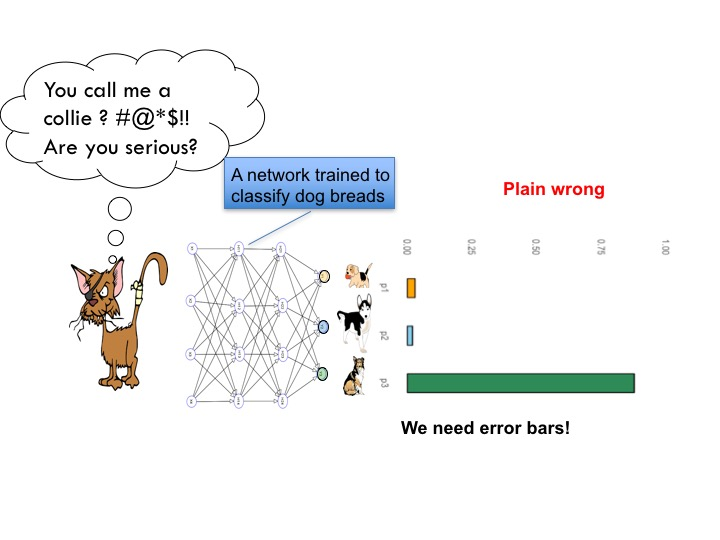
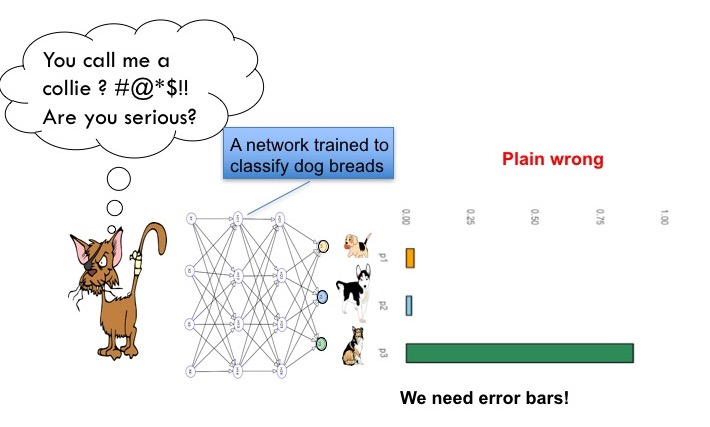
Cropped image and fixed broken link

diff --git a/_includes/uncertainty.md b/_includes/uncertainty.md
@@ -8,7 +8,7 @@ The network overconfidently assigns a high probability to the wrong class. I get
 
 We use this approach in several places:
 
-* For the use in high content screening see: [Oliver Dürr, Elvis Murina, Daniel Siegismund, Vasily Tolkachev, Stephan Steigele, and Beate Sick. "Know When You Don't Know: A Robust Deep Learning Approach in the Presence of Unknown Phenotypes" ASSAY and Drug Development Technologies.](https://www.researchgate.net/publication/230568931_Using_Community_Structure_for_Complex_Network_Layout)
+* For the use in high content screening see: [Oliver Dürr, Elvis Murina, Daniel Siegismund, Vasily Tolkachev, Stephan Steigele, and Beate Sick. "Know When You Don't Know: A Robust Deep Learning Approach in the Presence of Unknown Phenotypes" ASSAY and Drug Development Technologies.](https://www.liebertpub.com/doi/10.1089/adt.2018.859)
 
 And in other ongoing projects, stay tuned.
 
